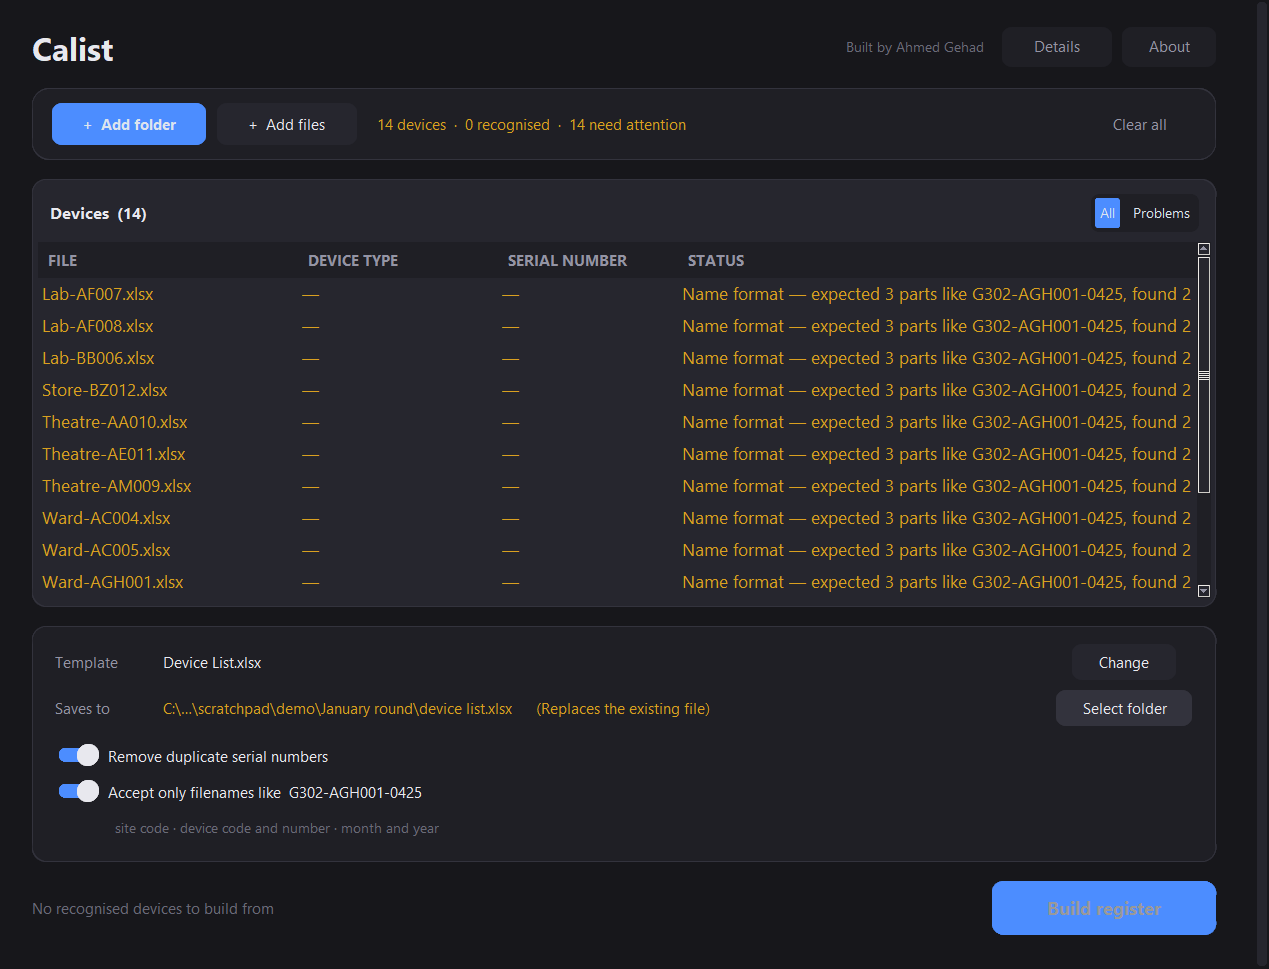
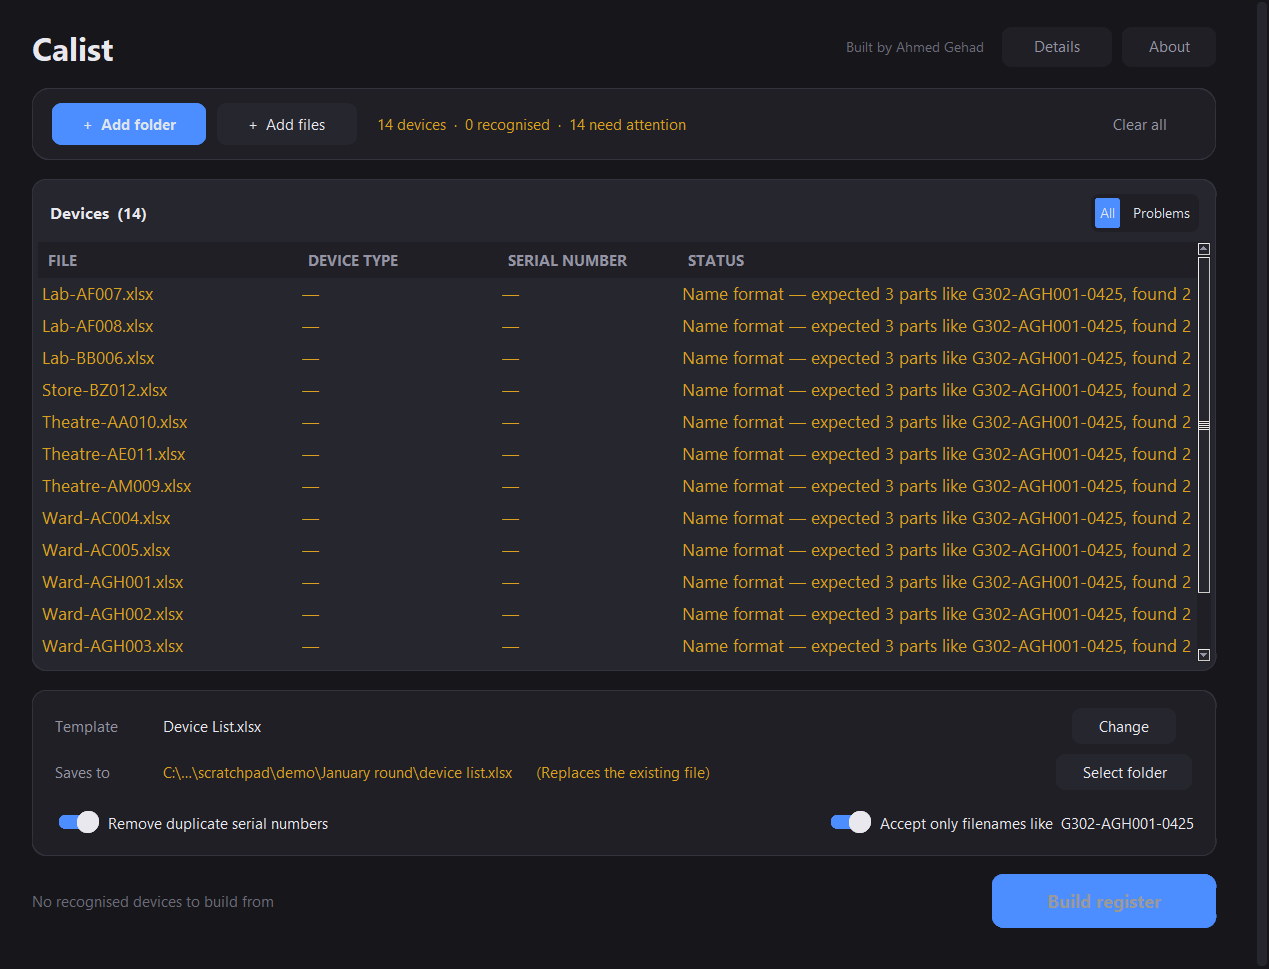
Trim the intake and settings panels, and fix a scaling unit mix-up
Four explanatory lines were taking vertical space the device list needed: the
hero's subtitle and its two footnotes, and the filename-format hint under the
strict-names switch. All four said things the interface already shows.

The two switches now share one row - duplicates on the left, filename format
hard right, with a weighted spacer column pinning it to the edge as the window
widens. That alone takes two rows off the settings panel.

Net effect at 1020x700: the device table goes from 7 rows to 9, and the empty
state now fits the window exactly with no scrollbar at all.

Fixes a real unit bug uncovered while capping the hero. CTkFrame.configure(
height=) and cget("height") speak CustomTkinter's logical units, while slack
and every winfo_* measurement are device pixels - 1.25x apart on this display.
_fit_to_window was comparing one against the other, so a 380 cap rendered as
475 and the loop never settled, running until MAX_FIT_PASSES cut it off. It now
converts with ScalingTracker.get_widget_scaling and keeps each side in its own
units. The table branch is unaffected: a Treeview height is a row count and
ROW_PX is the raw ttk rowheight, so both were already device pixels.

Screenshots regenerated. 114 tests pass.

diff --git a/ui.py b/ui.py
@@ -635,16 +635,9 @@ class App(_Root):
 
         ctk.CTkLabel(self._hero, text="Add your devices", text_color=TEXT,
                      font=ctk.CTkFont(FONT, 24, "bold")).grid(row=2, column=0)
-        ctk.CTkLabel(
-            self._hero,
-            text=("Drop a folder here, or browse for one, to build the register"
-                  if HAS_DND else
-                  "Choose the folder holding your device inspection forms"),
-            text_color=MUTED, font=ctk.CTkFont(FONT, 13),
-        ).grid(row=3, column=0, pady=(6, 0))
 
         buttons = ctk.CTkFrame(self._hero, fg_color="transparent")
-        buttons.grid(row=4, column=0, pady=(22, 0))
+        buttons.grid(row=4, column=0, pady=(20, 0))
         ctk.CTkButton(buttons, text="Add folder", width=190, height=50,
                       corner_radius=11, fg_color=PRIMARY, hover_color=PRIMARY_HOVER,
                       font=ctk.CTkFont(FONT, 15, "bold"), command=self._add_folder
@@ -653,19 +646,6 @@ class App(_Root):
                       corner_radius=11, fg_color=SURFACE_2, hover_color=BORDER,
                       text_color=TEXT, font=ctk.CTkFont(FONT, 14),
                       command=self._add_files).pack(side="left")
-
-        ctk.CTkLabel(
-            self._hero,
-            text="Picking a folder adds every Excel file inside it, "
-                 "including files in subfolders.",
-            text_color=FAINT, font=ctk.CTkFont(FONT, 12),
-        ).grid(row=5, column=0, pady=(20, 0))
-        ctk.CTkLabel(
-            self._hero,
-            text="Each one is checked on arrival, so an unrecognised device "
-                 "shows up before you build — not after.",
-            text_color=FAINT, font=ctk.CTkFont(FONT, 12),
-        ).grid(row=6, column=0, pady=(3, 0))
 
         # ── slim bar ─────────────────────────────────────────────────────────
         self._drop_slim = ctk.CTkFrame(self._intake, fg_color="transparent")
@@ -795,28 +775,28 @@ class App(_Root):
             font=ctk.CTkFont(FONT, 12), command=self._pick_output_folder)
         self._btn_dest.grid(row=1, column=2, padx=(10, 18), pady=(0, 6))
 
+        # Both switches share one row: dedup left, filename format hard right.
+        # The weighted spacer column between them is what pins the second one
+        # to the edge as the window widens.
+        switches = ctk.CTkFrame(panel, fg_color="transparent")
+        switches.grid(row=2, column=0, columnspan=3, sticky="ew",
+                      padx=(18, 18), pady=(6, 14))
+        switches.grid_columnconfigure(0, weight=1)
+
         self._switch_dedup = ctk.CTkSwitch(
-            panel, text="Remove duplicate serial numbers", variable=self._dedup,
+            switches, text="Remove duplicate serial numbers", variable=self._dedup,
             font=ctk.CTkFont(FONT, 12), text_color=TEXT, progress_color=PRIMARY,
             button_color=TEXT, fg_color=BORDER, command=self._remember,
         )
-        self._switch_dedup.grid(row=2, column=0, columnspan=3, sticky="w",
-                                padx=(18, 0), pady=(4, 2))
+        self._switch_dedup.grid(row=0, column=0, sticky="w")
 
         self._switch_strict = ctk.CTkSwitch(
-            panel, text=f"Accept only filenames like  {FILENAME_EXAMPLE}",
+            switches, text=f"Accept only filenames like  {FILENAME_EXAMPLE}",
             variable=self._strict, font=ctk.CTkFont(FONT, 12), text_color=TEXT,
             progress_color=PRIMARY, button_color=TEXT, fg_color=BORDER,
             command=self._on_strict_toggled,
         )
-        self._switch_strict.grid(row=3, column=0, columnspan=3, sticky="w",
-                                 padx=(18, 0), pady=(2, 2))
-
-        self._lbl_format = ctk.CTkLabel(
-            panel, text="site code · device code and number · month and year",
-            text_color=FAINT, anchor="w", font=ctk.CTkFont(FONT, 11))
-        self._lbl_format.grid(row=4, column=0, columnspan=3, sticky="w",
-                              padx=(66, 0), pady=(0, 14))
+        self._switch_strict.grid(row=0, column=1, sticky="e", padx=(24, 0))
 
     def _build_action(self) -> None:
         self._action = ctk.CTkFrame(self._page, fg_color="transparent")
@@ -1156,7 +1136,10 @@ class App(_Root):
     #: into whole table rows.
     ROW_PX = 32
     MIN_ROWS, MAX_ROWS = 5, 40
-    MIN_HERO_H = 330
+    #: The hero absorbs spare height, but only up to a point — past MAX it is
+    #: just an expanse of empty card, so the leftover is left below the panel
+    #: instead. MIN is a little above the badge-title-buttons stack.
+    MIN_HERO_H, MAX_HERO_H = 230, 380
     #: Cap on the settle loop below, so a layout that cannot converge on an
     #: exact fit stops oscillating instead of rescheduling itself forever.
     MAX_FIT_PASSES = 6
@@ -1199,8 +1182,16 @@ class App(_Root):
         else:
             if abs(slack) < 10:
                 return
-            wanted = max(self.MIN_HERO_H, self._hero.winfo_reqheight() + slack)
-            if wanted != self._hero.winfo_reqheight():
+            # Two unit systems meet here. CTkFrame.configure(height=) takes
+            # CustomTkinter's logical units and cget gives them back, while
+            # slack and every winfo_* measurement are device pixels — 1.25x
+            # apart on this display. Mixing them made a 380 cap render as 475
+            # and kept the loop from ever settling.
+            scale = ctk.ScalingTracker.get_widget_scaling(self._hero)
+            current = self._hero.cget("height")
+            wanted = min(self.MAX_HERO_H,
+                         max(self.MIN_HERO_H, current + slack / scale))
+            if abs(wanted - current) >= 4:
                 self._hero.configure(height=wanted)
                 self._fit_job = self.after(30, self._fit_to_window)
 

diff --git a/calist.py b/calist.py
@@ -78,7 +78,7 @@ TEMPLATE_NAME = "Device List.xlsx"
 #: The single source of the version number. calist.spec reads it straight out
 #: of this file to stamp the executable's Windows version resource, so the
 #: About box and the file's Properties tab cannot drift apart.
-__version__ = "1.3.2"
+__version__ = "1.3.3"
 
 #: Authorship. Written into every register and into the workbook's document
 #: properties, so the credit travels with the file rather than living only in

diff --git a/CLAUDE.md b/CLAUDE.md
@@ -312,9 +312,17 @@ finished with the drawer open. Three things follow from the change, and all thre
   window height to whichever block can use it — the hero while the app is empty, the table once it
   is not — by converting the slack into whole Treeview rows (`ROW_PX`) or hero pixels. It is
   incremental and self-correcting rather than computing exact chrome heights, clamped by
-  `MIN_ROWS`/`MAX_ROWS` and `MIN_HERO_H`, and capped by `MAX_FIT_PASSES` so a layout that cannot
-  land on an exact fit stops rescheduling itself. Call `_on_resize()` (debounced) after anything
-  that changes the page's shape — `_show_action`, `_toggle_log` and `_refresh_intake` all do.
+  `MIN_ROWS`/`MAX_ROWS` and `MIN_HERO_H`/`MAX_HERO_H`, and capped by `MAX_FIT_PASSES` so a layout
+  that cannot land on an exact fit stops rescheduling itself. Call `_on_resize()` (debounced) after
+  anything that changes the page's shape — `_show_action`, `_toggle_log` and `_refresh_intake` all
+  do.
+- **Two unit systems meet in the hero branch.** `CTkFrame.configure(height=)` and `cget("height")`
+  speak CustomTkinter's *logical* units; `slack` and every `winfo_*` measurement are *device*
+  pixels, 1.25× apart on this display. Comparing one against the other made a 380 cap render as
+  475 and stopped the loop settling. Convert with
+  `ctk.ScalingTracker.get_widget_scaling(widget)` and keep each side in its own units. The table
+  branch is exempt: a Treeview's `height` is a row count and `ROW_PX` is the raw ttk `rowheight`,
+  so both are already device pixels.
 - **The hero needs `grid_propagate(False)` and an explicit height.** Left to size itself it collapses
   to its contents, and the empty state is meant to fill the window.
 - **`CTkScrollableFrame` steals the mouse wheel.** It binds `<MouseWheel>` with `bind_all` and
